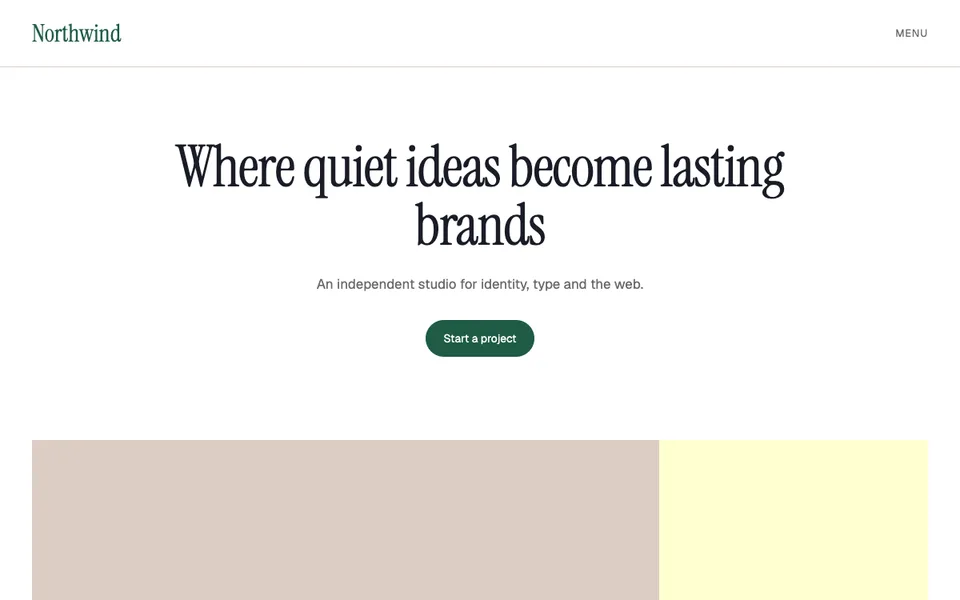
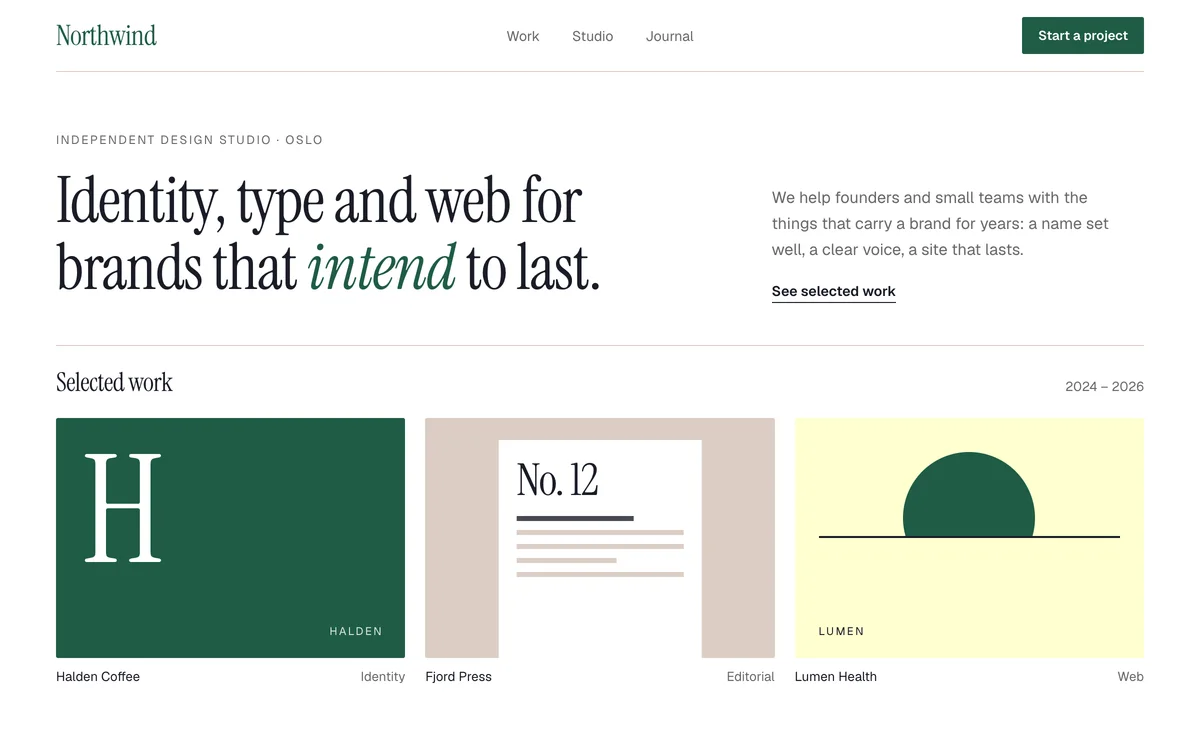
AI-tools example: a well-made Northwind page, no widows, aligned halves
Real nav, editorial hero, selected-work tiles drawn from the palette (no
borrowed imagery); headings balanced and paragraphs wrapped without widows;
both versions share every line position so the slider reads as one page
changing type and colour.

diff --git a/scripts/render-ai-example.ts b/scripts/render-ai-example.ts
@@ -19,22 +19,51 @@ import { getSiteDetail } from '@/lib/read/site-detail'
 // Two library sites as references: cues, not a copy of either.
 const REFERENCES = ['goodside.studio', 'compact.studio']
 
-const page = (style: string, head = '') => `<!doctype html><html><head><meta charset="utf-8">${head}<style>${style}
-*{box-sizing:border-box}body{margin:0}
-nav{display:flex;justify-content:space-between;align-items:center;padding:22px 40px}
-.hero{padding:88px 40px 56px;text-align:center}
-h1{margin:0 auto;max-width:900px}
-p{max-width:520px;margin:24px auto 0;font-size:17px;line-height:1.5}
-a{display:inline-block;margin-top:32px;padding:14px 22px;text-decoration:none;font-size:14px}
-.band{margin:48px 40px 0;height:200px}
-</style></head><body><nav><span class="logo">Northwind</span><span class="menu">Menu</span></nav>
-<section class="hero"><h1>Where quiet ideas become lasting brands</h1><p>An independent studio for identity, type and the web.</p><a href="#">Start a project</a></section><div class="band"></div></body></html>`
+// One page, Northwind's own: the same layout and words in both pictures; only
+// the type and colour variables change. Project tiles are abstract artwork
+// drawn from the palette, so nothing is borrowed from any site.
+const page = (vars: string, head = '') => `<!doctype html><html><head><meta charset="utf-8">${head}<style>
+:root{${vars}}
+*{box-sizing:border-box}html,body{margin:0}
+body{background:var(--bg);color:var(--ink);font-family:var(--body);-webkit-font-smoothing:antialiased}
+.wrap{padding:0 56px}
+nav{display:grid;grid-template-columns:1fr auto 1fr;align-items:center;height:72px;border-bottom:1px solid var(--line)}
+.logo{font-family:var(--display);font-size:var(--logo-size);font-weight:var(--display-weight);letter-spacing:var(--display-track);color:var(--brand)}
+.links{display:flex;gap:32px;font-size:14px;color:var(--muted)}
+.cta{justify-self:end;font-size:13px;font-weight:600;padding:10px 16px;border-radius:var(--radius);background:var(--brand);color:var(--on-brand)}
+.hero{display:grid;grid-template-columns:7fr 4fr;gap:64px;align-items:end;padding:60px 0 44px}
+.label{font-size:12px;letter-spacing:.14em;text-transform:uppercase;color:var(--muted);margin:0 0 20px}
+h1{font-family:var(--display);font-weight:var(--display-weight);font-size:var(--h1-size);line-height:1.04;letter-spacing:var(--display-track);margin:0;text-wrap:balance;min-height:calc(2 * 1.04 * 64px)}
+h1 em{font-style:var(--em-style);color:var(--brand)}
+.intro{font-size:16px;line-height:1.6;color:var(--muted);margin:0 0 18px;text-wrap:pretty;max-width:34ch}
+.more{font-size:14px;font-weight:600;color:var(--ink);border-bottom:1px solid var(--ink);padding-bottom:2px}
+.head{display:flex;justify-content:space-between;align-items:baseline;border-top:1px solid var(--line);padding-top:20px}
+.head h2{font-family:var(--display);font-weight:var(--display-weight);font-size:26px;line-height:32px;letter-spacing:var(--display-track);margin:0}
+.head span{font-size:13px;color:var(--muted)}
+.grid{display:grid;grid-template-columns:repeat(3,1fr);gap:20px;margin-top:20px}
+.tile{aspect-ratio:16/11;border-radius:var(--radius);position:relative;overflow:hidden}
+.tile small{position:absolute;font-size:11px;letter-spacing:.16em;text-transform:uppercase}
+.t1{background:var(--brand);color:var(--on-brand)}.t1 b{position:absolute;left:26px;top:18px;font-family:var(--display);font-weight:var(--display-weight);font-size:150px;line-height:1}.t1 small{right:22px;bottom:20px;opacity:.85}
+.t2{background:var(--surface)}.t2 .pg{position:absolute;left:50%;top:22px;bottom:0;width:58%;transform:translateX(-50%);background:var(--bg);padding:18px 18px 0;box-shadow:0 1px 0 var(--line)}
+.t2 .no{font-family:var(--display);font-weight:var(--display-weight);font-size:44px;line-height:1;letter-spacing:var(--display-track)}
+.t2 .ln{height:5px;background:var(--line);margin-top:9px}.t2 .ln:nth-child(2){margin-top:14px;width:70%;background:var(--ink);opacity:.8}.t2 .ln:nth-child(5){width:60%}
+.t3{background:var(--highlight)}.t3 u{position:absolute;width:132px;height:132px;border-radius:50%;background:var(--accent);left:50%;top:34px;transform:translateX(-50%)}
+.t3 s{position:absolute;left:0;right:0;top:118px;bottom:0;background:var(--highlight)}.t3 i{position:absolute;left:24px;right:24px;top:118px;height:2px;background:var(--ink)}
+.t3 small{left:24px;bottom:20px;color:var(--ink)}
+.cap{display:flex;justify-content:space-between;margin:10px 0 0;font-size:13px;line-height:18px}.cap span:last-child{color:var(--muted)}
+</style></head><body><div class="wrap">
+<nav><span class="logo">Northwind</span><span class="links"><span>Work</span><span>Studio</span><span>Journal</span></span><span class="cta">Start a project</span></nav>
+<section class="hero"><div><p class="label">Independent design studio · Oslo</p><h1>Identity, type and web for brands that <em>intend</em> to last.</h1></div>
+<div><p class="intro">We help founders and small teams with the things that carry a brand for years: a name set well, a clear voice, a site that lasts.</p><span class="more">See selected work</span></div></section>
+<div class="head"><h2>Selected work</h2><span>2024 – 2026</span></div>
+<div class="grid"><div><div class="tile t1"><b>H</b><small>Halden</small></div><p class="cap"><span>Halden Coffee</span><span>Identity</span></p></div>
+<div><div class="tile t2"><div class="pg"><div class="no">No. 12</div><div class="ln"></div><div class="ln"></div><div class="ln"></div><div class="ln"></div><div class="ln"></div></div></div><p class="cap"><span>Fjord Press</span><span>Editorial</span></p></div>
+<div><div class="tile t3"><u></u><s></s><i></i><small>Lumen</small></div><p class="cap"><span>Lumen Health</span><span>Web</span></p></div></div>
+</div></body></html>`
 
 // The starter: the defaults a new project tends to have.
-const before = page(`body{font-family:system-ui,-apple-system,sans-serif;background:#f8fafc;color:#0f172a}
-nav{border-bottom:1px solid #e2e8f0}.logo{font-weight:700;font-size:20px}.menu{font-size:14px;color:#475569}
-h1{font-size:56px;font-weight:800;letter-spacing:-.02em;line-height:1.1}p{color:#64748b}
-a{background:#2563eb;color:#fff;border-radius:8px;font-weight:600}.band{background:#e2e8f0;border-radius:12px}`)
+const before = page(`--bg:#f8fafc;--ink:#0f172a;--muted:#64748b;--line:#e2e8f0;--brand:#2563eb;--on-brand:#ffffff;--surface:#e2e8f0;--highlight:#dbeafe;--accent:#94a3b8;
+--display:system-ui,-apple-system,sans-serif;--body:system-ui,-apple-system,sans-serif;--display-weight:800;--display-track:-.03em;--h1-size:50px;--logo-size:20px;--em-style:normal;--radius:10px`)
 
 // Northwind is a made-up studio; its green is its own brand colour, not taken
 // from anyone.
@@ -59,19 +88,16 @@ async function main() {
     highlight: hex(a, '#ffffd0')!,           // goodside.studio: soft highlight
     brand: BRAND,
   }
-  const after = page(`:root{--bg:${palette.background};--ink:${palette.text};--stone:${palette.stone};--muted:${palette.muted};--highlight:${palette.highlight};--brand:${palette.brand};--font-heading:"${FONTS.heading}", ui-serif, Georgia, serif;--font-body:"${FONTS.body}", ui-sans-serif, system-ui, sans-serif}
-body{font-family:var(--font-body);background:var(--bg);color:var(--ink)}
-nav{border-bottom:1px solid var(--stone)}.logo{font-family:var(--font-heading);font-size:30px;color:var(--brand)}.menu{font-size:13px;letter-spacing:.06em;text-transform:uppercase;color:var(--muted)}
-h1{font-family:var(--font-heading);font-weight:400;font-size:72px;line-height:1.02;letter-spacing:-.02em}p{color:var(--muted)}
-a{background:var(--brand);color:#fff;border-radius:999px}.band{background:linear-gradient(90deg,var(--stone) 0 70%,var(--highlight) 70%)}`,
-    '<link rel="stylesheet" href="https://fonts.googleapis.com/css2?family=Instrument+Serif&family=Geist:wght@400;600&display=swap">')
+  const after = page(`--bg:${palette.background};--ink:${palette.text};--muted:${palette.muted};--line:${palette.stone};--brand:${palette.brand};--on-brand:${palette.background};--surface:${palette.stone};--highlight:${palette.highlight};--accent:${palette.brand};
+--display:"${FONTS.heading}", ui-serif, Georgia, serif;--body:"${FONTS.body}", ui-sans-serif, system-ui, sans-serif;--display-weight:400;--display-track:-.015em;--h1-size:64px;--logo-size:28px;--em-style:italic;--radius:2px`,
+    '<link rel="stylesheet" href="https://fonts.googleapis.com/css2?family=Instrument+Serif:ital@0;1&family=Geist:wght@400;600&display=swap">')
 
   const br = await chromium.launch({ channel: 'chrome' })
-  const p = await br.newPage({ viewport: { width: 1200, height: 750 }, deviceScaleFactor: 1 })
+  const p = await br.newPage({ viewport: { width: 1200, height: 750 }, deviceScaleFactor: 2 })
   for (const [name, html] of [['before', before], ['after', after]] as const) {
     await p.setContent(html, { waitUntil: 'networkidle' }); await p.waitForTimeout(800)
     const png = await p.screenshot()
-    await sharp(png).resize({ width: 960 }).webp({ quality: 82 }).toFile(`public/pro/ai-${name}.webp`)
+    await sharp(png).resize({ width: 1200 }).webp({ quality: 84 }).toFile(`public/pro/ai-${name}.webp`)
   }
   await br.close()
   const example = {
